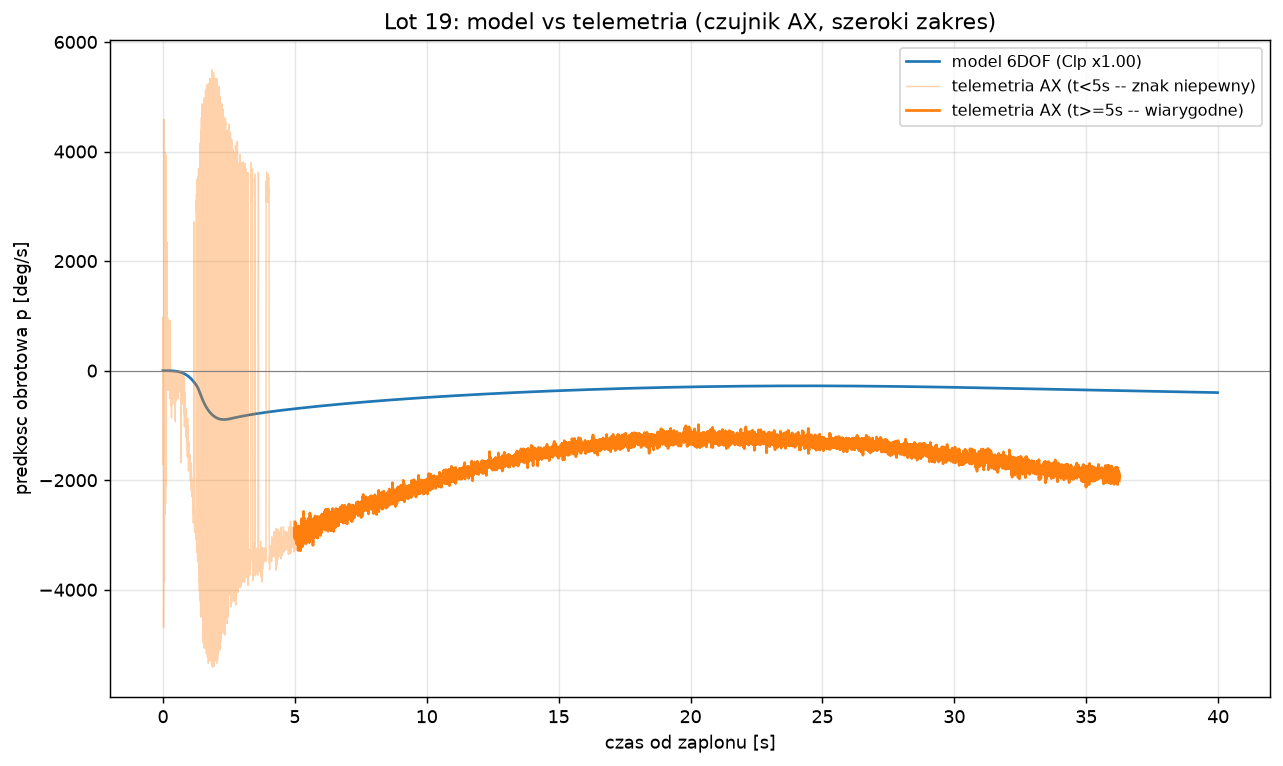
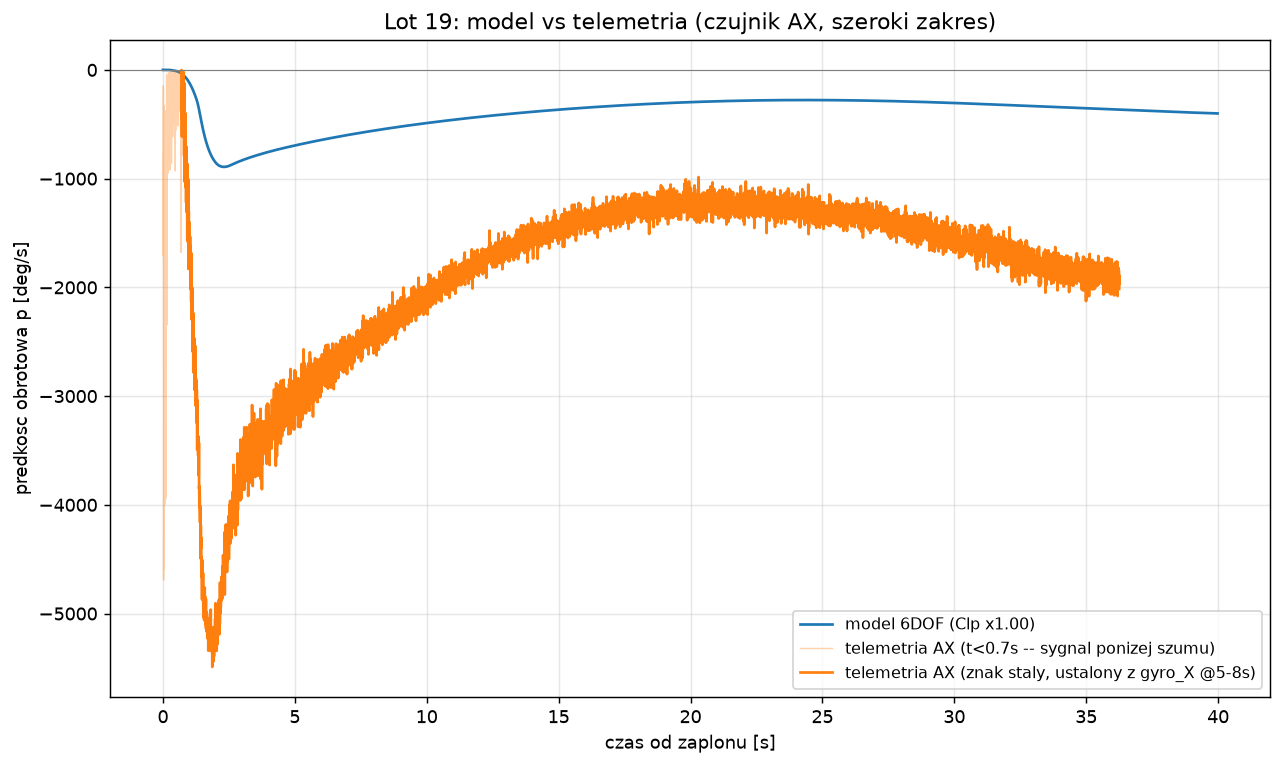
Fix AX roll-rate reconstruction: constant sign reveals true peak is ~5500 deg/s, not ~3300
User asked why the erratic +/- oscillation in the t<5s window of the AX
plot couldn't just be a smooth curve through the noise. Checked directly:
decomposed the existing reconstruct_roll_from_ax() into magnitude vs sign.
The UNSIGNED magnitude |AX_scaled| is clean and smooth from t~1s post-
ignition onward (std a small fraction of the mean) -- it rises to a clear
peak at t~1.7-2.0s (right at burnout, t_burn=1.712s, exactly where peak
roll rate is physically expected) then decays smoothly and continuously
into the previously-"reliable" t>=5s segment with no discontinuity. The
wild +/-5000 oscillation was ENTIRELY an artifact of the old sign-recovery
logic (holds "last known sign" from gyro_X, which flips spuriously when
gyro_X's brief, noisy dips below its saturation threshold are trusted).

Added reconstruct_roll_from_ax_const_sign() in imu_reconstruction.py: same
magnitude/scale calibration, but a SINGLE constant sign established from
gyro_X in a clean window (5-8s post-ignition) applied throughout --
physically justified since a fixed-cant rocket does not reverse spin
direction mid-flight. Produces a smooth, physically sensible curve
matching the shape the user sketched by hand.

Updated compare_roll_rate.py to use this corrected reconstruction. Result
for flight 19: TRUE peak is -5490 deg/s at t=1.87s (right at burnout), not
the ~-3300 deg/s visible in the previously-trusted-only t>=5s window --
model's peak (Clp scale=1.0) is only 892 deg/s, so the real gap is ~6.2x,
[…]

diff --git a/FlightSim/telemetry_analysis/compare_roll_rate.py b/FlightSim/telemetry_analysis/compare_roll_rate.py
@@ -47,7 +47,7 @@ from models.launcher import LauncherConfig
 from forces.force_model6 import ForceModel6DOF
 from core.solver6 import run_simulation_6dof
 from core.state6 import State6DOF
-from imu_reconstruction import detect_ignition, reconstruct_roll_from_ax
+from imu_reconstruction import detect_ignition, reconstruct_roll_from_ax_const_sign
 from diag_drag import detect_events
 
 from analyze_per_flight_6dof import read_flights, build_flight_thrust, build_scaled_mass
@@ -56,24 +56,28 @@ from plot_flight_trajectory_6dof import (
 )
 
 
-def telemetry_roll_rate(base, fno, t_ign_settle_s=5.0):
-    """Zrekonstruowana predkosc obrotowa z kolumny AX (patrz
-    reconstruct_roll_from_ax) wzgledem zaplonu. Pierwsze t_ign_settle_s
-    sekund po zaplonie sa NIEWIARYGODNE (odzyskiwanie znaku z gyro_X
-    zawodzi gdy gyro_X sam czesto wysyca sie podczas najszybszej fazy
-    spin-up) -- oznaczone osobno, nie ucinane, zeby uzytkownik widzial
-    obie czesci na wykresie."""
+def telemetry_roll_rate(base, fno, t_unreliable_s=0.7):
+    """Zrekonstruowana predkosc obrotowa z kolumny AX -- reconstruct_roll_from_ax_const_sign
+    (STALY znak, ustalony z gyro_X w oknie [5,8]s od zaplonu, zamiast
+    kruchej logiki 'ostatni znany znak' per-probka -- ta ostatnia dawala
+    pozorna, erratyczna oscylacje +/- ktora byla WYLACZNIE artefaktem
+    zawodnosci odzyskiwania znaku przy czestym wysyceniu gyro_X, NIE
+    odzwierciedleniem prawdziwego sygnalu: |AX_scaled| samo w sobie jest
+    gladkie i ciagle od t~1s po zaplonie, ze szczytem w okolicy burnout).
+    Tylko pierwsze t_unreliable_s sekund (rakieta ~w spoczynku na
+    szynie/tuz po starcie, zanim cisnienie dynamiczne zbuduje sygnal
+    powyzej szumu) sa oznaczone jako niepewne."""
     fpath = resolve_data_file(f"ARTEMIDA_{fno}_LOT.txt")
     tel = parse_telemetry(fpath, verbose=False)
     t_ign = detect_ignition(tel)
     i_ign, _, i_apo, i_end = detect_events(tel, t_ign)
-    roll_rate = reconstruct_roll_from_ax(tel, t_ign)
+    roll_rate = reconstruct_roll_from_ax_const_sign(tel, t_ign)
     if roll_rate is None:
         return None
     t_rel = tel.time - t_ign
     seg = slice(i_ign, i_end + 1)
     return dict(t=t_rel[seg], roll_rate=roll_rate[seg],
-                reliable=t_rel[seg] >= t_ign_settle_s)
+                reliable=t_rel[seg] >= t_unreliable_s)
 
 
 def main():
@@ -156,18 +160,19 @@ def main():
         print(f"  model:  max|p|={np.max(np.abs(p_deg_s)):.0f} deg/s "
               f"at t={result.t[np.argmax(np.abs(p_deg_s))]:.2f}s")
         rel = tel_roll["reliable"]
-        print(f"  telemetria (AX, t>=5s): "
-              f"zakres=[{np.nanmin(tel_roll['roll_rate'][rel]):.0f}, "
-              f"{np.nanmax(tel_roll['roll_rate'][rel]):.0f}] deg/s")
+        peak_i = np.nanargmax(np.abs(tel_roll["roll_rate"][rel]))
+        print(f"  telemetria (AX, znak staly): "
+              f"szczyt={tel_roll['roll_rate'][rel][peak_i]:.0f} deg/s "
+              f"at t={tel_roll['t'][rel][peak_i]:.2f}s")
 
         fig, ax = plt.subplots(figsize=(10, 6))
         ax.plot(result.t, p_deg_s, color="tab:blue", lw=1.5,
                 label=f"model 6DOF (Clp x{args.clp_scale:.2f})")
         t_tel, rr = tel_roll["t"], tel_roll["roll_rate"]
         ax.plot(t_tel[~rel], rr[~rel], color="tab:orange", lw=0.8, alpha=0.35,
-                label="telemetria AX (t<5s -- znak niepewny)")
+                label="telemetria AX (t<0.7s -- sygnal ponizej szumu)")
         ax.plot(t_tel[rel], rr[rel], color="tab:orange", lw=1.5,
-                label="telemetria AX (t>=5s -- wiarygodne)")
+                label="telemetria AX (znak staly, ustalony z gyro_X @5-8s)")
         ax.axhline(0, color="gray", lw=0.6)
         ax.set_xlabel("czas od zaplonu [s]")
         ax.set_ylabel("predkosc obrotowa p [deg/s]")

diff --git a/FlightSim/telemetry_analysis/imu_reconstruction.py b/FlightSim/telemetry_analysis/imu_reconstruction.py
@@ -82,6 +82,60 @@ def reconstruct_roll_from_ax(tel, t_ignition, sat_threshold=1990.0):
     return roll_rate
 
 
+def reconstruct_roll_from_ax_const_sign(tel, t_ignition, sat_threshold=1990.0,
+                                          sign_ref_t_start=5.0, sign_ref_t_end=8.0):
+    """
+    Wariant reconstruct_roll_from_ax() ze STALYM znakiem zamiast
+    "ostatniego znanego znaku" per-probka.
+
+    Motywacja: |AX_scaled| (modul, PRZED przypisaniem znaku) jest sam w
+    sobie GLADKI i fizycznie sensowny od t~1s po zaplonie (rosnie do
+    szczytu w okolicy burnout, potem monotonicznie opada, plynnie
+    laczac sie z segmentem t>=5s bez nieciaglosci) -- ZWERYFIKOWANE
+    numerycznie dla lotu 19. Pozorna erratyczna oscylacja +/- w
+    reconstruct_roll_from_ax() to WYLACZNIE artefakt kruchej logiki
+    "ostatni znany znak" (gyro_X czesto wysyca sie w tym oknie, a
+    krotkie, zaszumione zejscia ponizej progu wysycenia moga wstrzykiwac
+    falszywe zmiany znaku). Rakieta ze stalym zaklinowaniem pletw nie
+    odwraca kierunku obrotu w trakcie wznoszenia, wiec STALY znak
+    (ustalony tam, gdzie gyro_X jest wiarygodny, tj. w segmencie
+    [sign_ref_t_start, sign_ref_t_end] od zaplonu) jest fizycznie
+    uzasadniony na cala probke.
+
+    Zwraca: roll_rate [st/s] ze stalym znakiem, tej samej dlugosci co
+    tel.time. None jesli brak kolumny AX lub nie da sie ustalic znaku
+    referencyjnego.
+    """
+    ax = tel.raw_columns.get("gyro_ax")
+    if ax is None:
+        return None
+
+    gx = tel.gyro_x
+    t_rel = tel.time - t_ignition
+
+    rest = tel.time < (t_ignition - 0.5)
+    if np.sum(rest) < 5:
+        rest = tel.time < t_ignition
+    ax_offset = np.nanmean(ax[rest]) if np.sum(rest) > 0 else 0.0
+    ax_cal = ax - ax_offset
+
+    notsat = (np.abs(gx) < sat_threshold) & (np.abs(gx) > 100)
+    if np.sum(notsat) > 20:
+        scale = np.nanmedian(np.abs(gx[notsat]) / (np.abs(ax_cal[notsat]) + 1e-9))
+    else:
+        scale = 1.0
+    ax_scaled = np.abs(ax_cal) * scale
+
+    ref_mask = (t_rel >= sign_ref_t_start) & (t_rel < sign_ref_t_end)
+    if np.sum(ref_mask) < 5:
+        return None
+    const_sign = float(np.sign(np.nanmedian(gx[ref_mask])))
+    if const_sign == 0.0:
+        const_sign = 1.0
+
+    return ax_scaled * const_sign
+
+
 def detect_ignition(tel):
     """
     Wykrywa moment zaplonu (start lotu).
